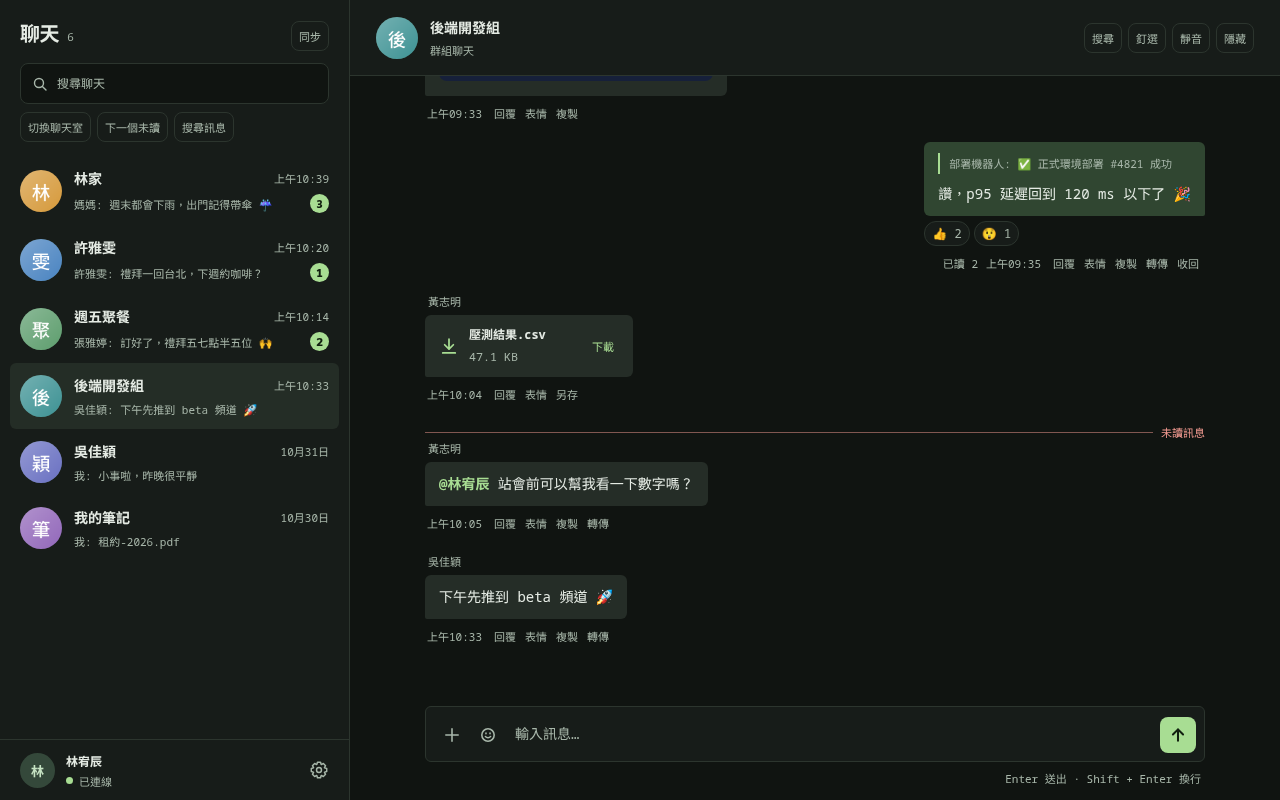
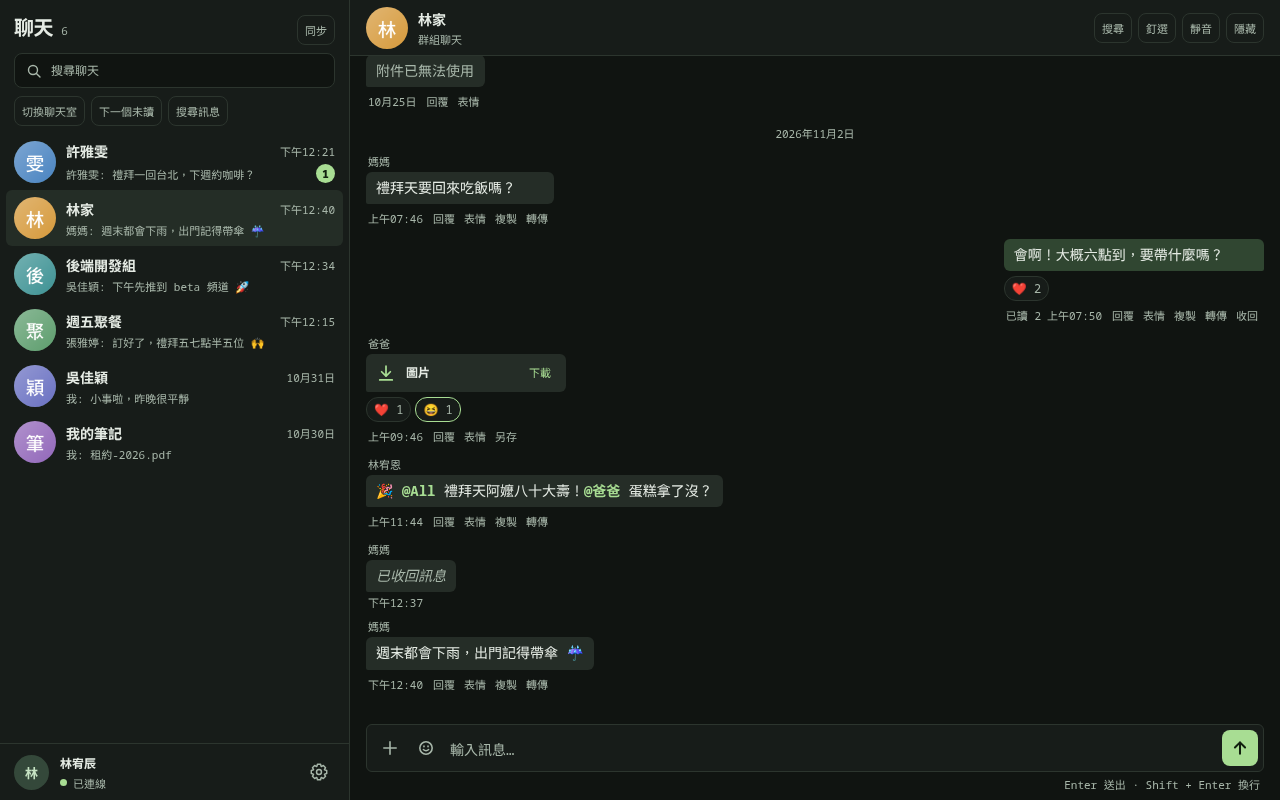
fix(web): tighten the chat layout and composer spacing

diff --git a/daemon/web/public/app.css b/daemon/web/public/app.css
@@ -318,13 +318,13 @@ a:focus-visible {
   background: var(--panel);
 }
 .sidebar-top {
-  padding: 18px 20px 14px;
+  padding: 12px 14px 8px;
 }
 .section-heading {
   display: flex;
   align-items: baseline;
   gap: 8px;
-  margin-bottom: 12px;
+  margin-bottom: 8px;
 }
 .section-heading h1 {
   font-size: calc(20rem / 14);
@@ -359,7 +359,7 @@ a:focus-visible {
   border: 0;
   outline: 0;
   color: var(--text);
-  padding: 11px 0;
+  padding: 8px 0;
   font-size: calc(12rem / 14);
 }
 input::placeholder,
@@ -377,7 +377,7 @@ textarea::placeholder {
   min-height: 0;
   overflow: auto;
   contain: layout paint;
-  padding: 0 10px;
+  padding: 0 6px;
 }
 .chat-row {
   width: 100%;
@@ -385,9 +385,9 @@ textarea::placeholder {
   content-visibility: auto;
   contain-intrinsic-size: auto 44px;
   align-items: center;
-  gap: 12px;
+  gap: 10px;
   text-align: left;
-  padding: 12px 10px;
+  padding: 7px 8px;
   border: 0;
   border-radius: 6px;
   background: transparent;
@@ -427,7 +427,7 @@ textarea::placeholder {
   justify-content: space-between;
 }
 .row-top {
-  margin-bottom: 6px;
+  margin-bottom: 3px;
 }
 .row-name {
   font-weight: 700;
@@ -467,7 +467,7 @@ textarea::placeholder {
 }
 .sidebar-bottom {
   border-top: 1px solid var(--line);
-  padding: 8px 8px 8px 20px;
+  padding: 6px 8px 6px 14px;
   display: flex;
   justify-content: space-between;
   align-items: center;
@@ -541,11 +541,11 @@ textarea::placeholder {
   flex-direction: column;
 }
 .chat-header {
-  min-height: 76px;
+  min-height: 56px;
   display: flex;
   align-items: center;
-  gap: 12px;
-  padding: 0 26px;
+  gap: 10px;
+  padding: 6px 16px;
   background: var(--panel);
   border-bottom: 1px solid var(--line);
   flex: none;
@@ -564,7 +564,7 @@ textarea::placeholder {
 .chat-heading span {
   display: block;
   font-size: calc(11rem / 14);
-  margin-top: 5px;
+  margin-top: 2px;
 }
 .back {
   display: none;
@@ -574,14 +574,14 @@ textarea::placeholder {
   min-height: 0;
   overflow: auto;
   overscroll-behavior: contain;
-  padding: 26px max(28px,calc((100% - 780px)/2));
+  padding: 12px max(16px,calc((100% - 960px)/2));
   scrollbar-color: var(--line) transparent;
 }
 .message-row {
   content-visibility: auto;
   contain-intrinsic-size: auto 100px;
   display: flex;
-  margin: 0 0 18px;
+  margin: 0 0 8px;
   gap: 9px;
   align-items: end;
 }
@@ -593,21 +593,21 @@ textarea::placeholder {
   justify-content: flex-end;
 }
 .message-column {
-  max-width: min(78%,560px);
+  max-width: min(78%,640px);
   min-width: 0;
 }
 .sender {
   color: var(--muted);
   font-size: calc(11rem / 14);
-  margin: 0 0 6px 3px;
+  margin: 0 0 3px 2px;
 }
 .bubble {
   position: relative;
   background: var(--bubble);
   border-radius: 6px 6px 6px 2px;
-  padding: 11px 14px;
+  padding: 6px 10px;
   overflow-wrap: anywhere;
-  line-height: 1.55;
+  line-height: 1.45;
 }
 .own .bubble {
   background: var(--own);
@@ -648,8 +648,8 @@ textarea::placeholder {
 .message-meta {
   display: flex;
   align-items: center;
-  gap: 8px;
-  margin-top: 5px;
+  gap: 6px;
+  margin-top: 2px;
   padding: 0 2px;
   color: var(--muted);
   font-size: calc(11rem / 14);
@@ -770,7 +770,7 @@ textarea::placeholder {
   text-align: center;
   color: var(--muted);
   font-size: calc(11rem / 14);
-  margin: 20px 0;
+  margin: 12px 0;
 }
 .loading-message {
   text-align: center;
@@ -780,7 +780,7 @@ textarea::placeholder {
 }
 .drop-overlay {
   position: absolute;
-  inset: 76px 20px 125px;
+  inset: 58px 16px 96px;
   z-index: 4;
   display: grid;
   place-items: center;
@@ -792,18 +792,18 @@ textarea::placeholder {
 }
 .composer-area {
   flex: none;
-  padding: 14px max(28px,calc((100% - 780px)/2)) 14px;
+  padding: 8px max(16px,calc((100% - 960px)/2));
   background: var(--bg);
   position: relative;
 }
 .composer {
   display: flex;
   align-items: end;
-  gap: 9px;
+  gap: 6px;
   background: var(--panel);
   border: 1px solid var(--line);
   border-radius: 6px;
-  padding: 8px;
+  padding: 5px;
 }
 .composer:focus-within {
   border-color: var(--accent);
@@ -820,7 +820,7 @@ textarea::placeholder {
   color: var(--text);
   border: 0;
   outline: 0;
-  padding: 9px 0;
+  padding: 6px 0;
   line-height: 1.4;
 }
 .search-wrap input:focus-visible {
@@ -839,7 +839,7 @@ textarea::placeholder {
   color: var(--accent-ink);
 }
 .composer-hint {
-  margin: 8px 4px 0;
+  margin: 4px 4px 0;
   text-align: right;
   color: var(--muted);
   font-size: calc(11rem / 14);
@@ -1121,7 +1121,7 @@ textarea::placeholder {
     border-right: 0;
   }
   .sidebar-top {
-    padding: 22px 16px 12px;
+    padding: 12px 16px 8px;
   }
   .sidebar-bottom {
     padding: 8px 8px max(8px, env(safe-area-inset-bottom)) 16px;
@@ -1137,7 +1137,7 @@ textarea::placeholder {
     display: block;
   }
   .chat-header {
-    min-height: 62px;
+    min-height: 56px;
     padding: 0 12px;
     gap: 9px;
   }
@@ -1150,13 +1150,13 @@ textarea::placeholder {
     display: grid;
   }
   .messages {
-    padding: 20px 14px;
+    padding: 12px;
   }
   .message-column {
     max-width: 85%;
   }
   .composer-area {
-    padding: 10px 12px max(10px,env(safe-area-inset-bottom));
+    padding: 6px 10px max(8px,env(safe-area-inset-bottom));
   }
   .composer textarea {
     font-size: max(16px, 1rem);
@@ -1165,7 +1165,7 @@ textarea::placeholder {
     display: none;
   }
   .drop-overlay {
-    inset: 65px 12px 90px;
+    inset: 58px 10px 80px;
   }
   .sticker-picker {
     right: 12px;
